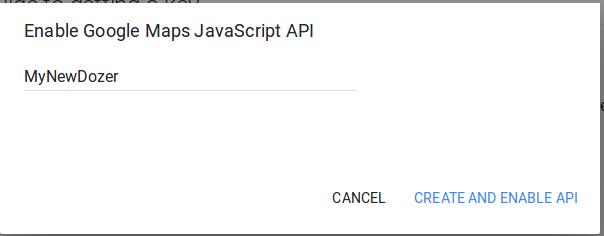
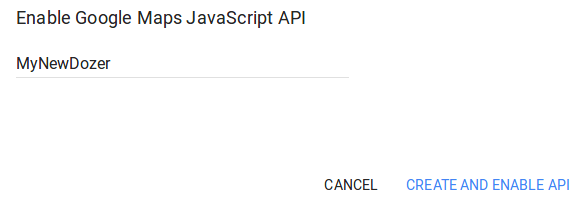
fix ugly gmaps image

Changed region(s): [[0.0, 0.0, 1.0, 1.0], [0.031, 0.2559, 0.5897, 0.3697], [0.5276, 0.7962, 0.6517, 0.91]]

diff --git a/README.md b/README.md
@@ -35,7 +35,8 @@ Instructions for installing are located [here](https://github.com/pyenv/pyenv-in
 ### Getting a Google Maps API Key
 
 1. Go to the [Google Map APIs Docs](https://developers.google.com/maps/documentation/javascript/get-api-key) and request an API key
-2. Create a new project. ![creating a new project](static/gmaps.png)
+2. Create a new project. 
+   ![creating a new project](static/gmaps.png)
 3. Copy the API key - We'll need this too!
 
 ### Setting up the bot
